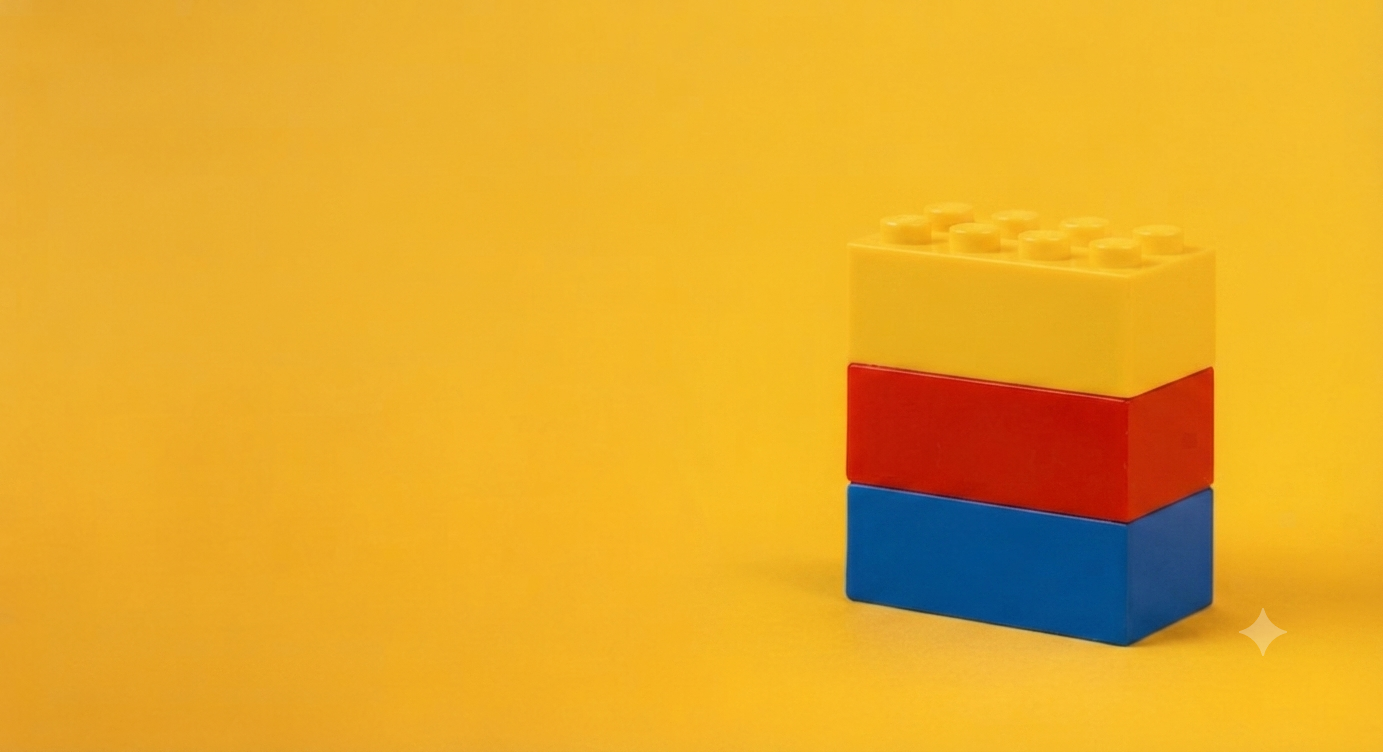
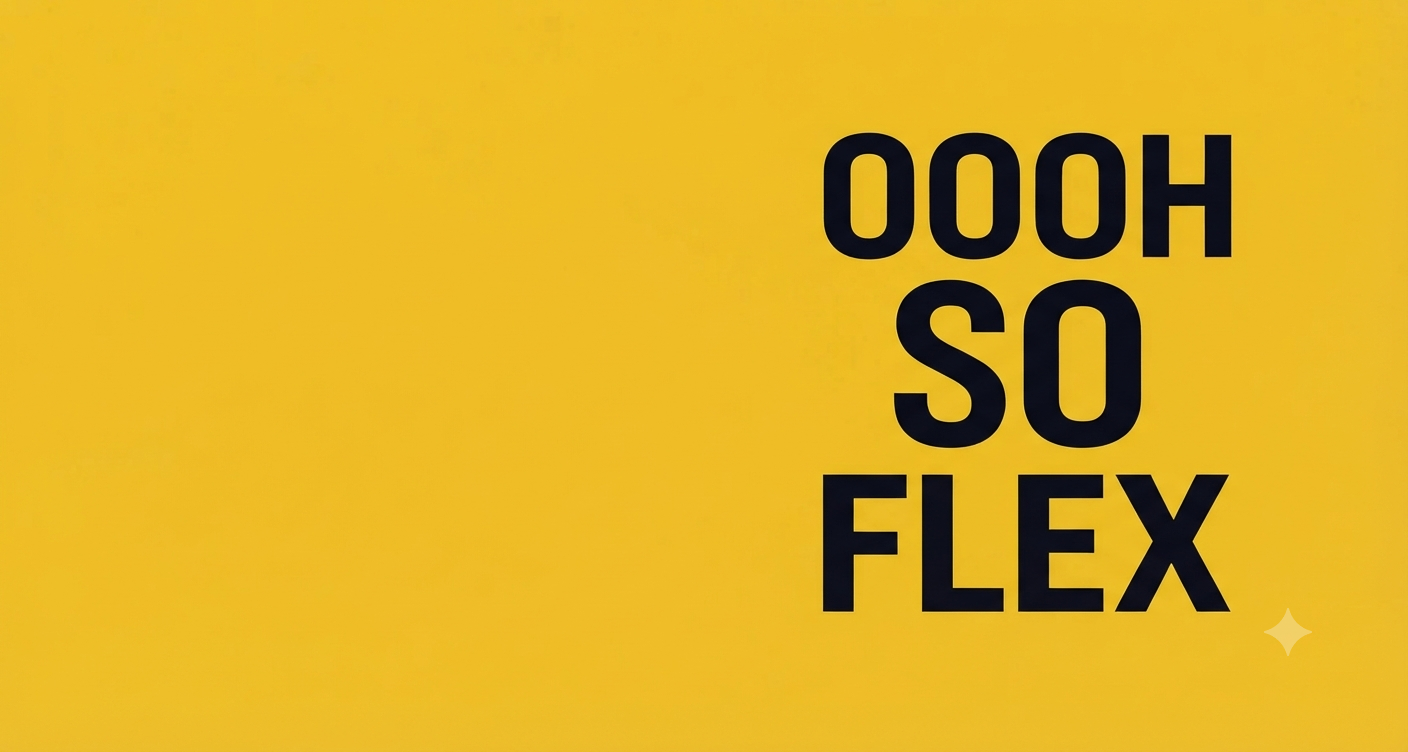
Update copy and flavor images

Changed region(s): [[0.5597, 0.1529, 1.0, 0.887], [0.0, 0.7035, 0.2798, 1.0], [0.0, 0.0, 0.1555, 0.0918]]

diff --git a/src/i18n/ui.ts b/src/i18n/ui.ts
@@ -39,25 +39,25 @@ export const ui = {
 
     'project1.title': 'Vision Design System',
     'project1.description': "End-to-end design system for Perceptyx's employee experience platform, from token architecture to component library.",
-    'project1.metric': 'Design System',
+    'project1.metric': '80%+ team adoption',
     'project1.summary': 'Perceptyx needed a single source of truth that could span multiple product surfaces without fracturing. Vision was the answer: a token-first, framework-agnostic system where every decision — color, spacing, motion — was named for its intent, not its value.',
     'project1.details': 'The core constraint was framework agnosticism: components had to work equally well in React, Vue, and plain HTML. Tokens lived at the semantic layer — shipped as CSS custom properties — so any consumer could adopt them regardless of stack. Storybook served as the shared contract between design and engineering, and versioned npm packages kept teams on a predictable upgrade path.',
 
     'project2.title': 'TurniSports — Online Schedule & Customer CMS',
     'project2.description': 'Booking and customer management platform built for individual sports coaches.',
-    'project2.metric': 'Open Source',
+    'project2.metric': 'Solo fullstack ship',
     'project2.summary': 'TurniSports started from a real pain point: individual coaches managing their schedules through WhatsApp groups and spreadsheets. The goal was a product that felt simple to the coach but handled the full complexity of recurring bookings, availability, and customer management.',
     'project2.details': 'Built as a full-stack application with a React frontend and a CMS that let coaches manage their availability, sessions, and client records without any technical knowledge. Real-time availability, booking confirmation flows, and a clean public-facing scheduling UI for their clients.',
 
     'project3.title': 'Kimberly-Clark — Enterprise Frontend (via Accenture)',
     'project3.description': "Frontend development for Kimberly-Clark's internal platforms as part of an Accenture engagement.",
-    'project3.metric': 'Enterprise',
+    'project3.metric': 'Accenture Award',
     'project3.summary': "Embedded within an Accenture team delivering frontend solutions for Kimberly-Clark's internal tools and consumer-facing platforms. The challenge was navigating enterprise constraints — legacy integrations, multi-team coordination, strict delivery timelines — while keeping the frontend quality high.",
     'project3.details': 'Led component standardization efforts across the engagement, established coding guidelines adopted by the broader team, and worked closely with UX and backend engineers to ship features that held up at scale. The experience sharpened my ability to operate in large, distributed delivery contexts.',
 
     'contact.heading': 'Contact',
-    'contact.intro': "If you're building something where frontend architecture matters, I'd like to hear about it.",
-    'contact.title': "Let's keep in touch.",
+    'contact.intro': "If frontend architecture is a real constraint in what you're building — not an afterthought — I want to talk.",
+    'contact.title': "Let's build something solid.",
     'contact.now': 'Contact Now',
 
     'nav.features': 'Features',
@@ -68,20 +68,20 @@ export const ui = {
     'nav.menu': 'Open menu',
     'nav.menu.close': 'Close menu',
 
-    'hero.title': 'Fullstack dev Frontend focus',
-    'hero.care': 'Caring for Performance & User Experiences',
-    'hero.thinker': 'Proactive thinker',
-    'hero.thinker.detail': 'Passionate for the craft, always thinking on the next step',
-    'hero.years.detail': 'Years of experience that makes a difference',
+    'hero.title': 'Frontend Engineer who ships full-stack',
+    'hero.care': 'Performance and access, built in — not bolted on',
+    'hero.thinker': 'Systems thinker',
+    'hero.thinker.detail': 'I think in systems, not screens. Architecture decisions today prevent fires next quarter.',
+    'hero.years.detail': '10+ years of shipping frontend that holds',
     'hero.learn-more': 'Learn More',
 
-    'work.flavors.heading': 'NOW with MORE flavors',
-    'work.flavors.frontend.kicker': 'Frontend experience',
-    'work.flavors.frontend.title': 'Design systems & frontend architecture',
-    'work.flavors.a11y.title': 'Accessibility & Performance',
-    'work.flavors.backend.kicker': 'Backend experience',
-    'work.flavors.backend.title': 'Node, SQL & API',
-    'work.my-work': 'My Work',
+    'work.flavors.heading': 'NOW in MORE flavors',
+    'work.flavors.frontend.kicker': 'Original flavor',
+    'work.flavors.frontend.title': 'Design systems &\nfrontend architecture',
+    'work.flavors.a11y.title': 'Built-in accessibility &\nperformance',
+    'work.flavors.backend.kicker': 'Extended flavor',
+    'work.flavors.backend.title': 'Node, SQL & APIs',
+    'work.my-work': 'See the work',
     'work.projects.pill': 'Projects',
 
     'project.view-more': 'View More',
@@ -173,25 +173,25 @@ export const ui = {
 
     'project1.title': 'Vision Design System',
     'project1.description': 'Sistema de diseño end-to-end para la plataforma de experiencia del empleado de Perceptyx, desde la arquitectura de tokens hasta la librería de componentes.',
-    'project1.metric': 'Design System',
+    'project1.metric': '80%+ adopción del equipo',
     'project1.summary': 'Perceptyx necesitaba una única fuente de verdad que pudiera abarcar múltiples superficies de producto sin fragmentarse. Vision fue la respuesta: un sistema token-first y agnóstico al framework donde cada decisión — color, espaciado, movimiento — fue nombrada por su intención, no por su valor.',
     'project1.details': 'La restricción principal era el agnosticismo de framework: los componentes tenían que funcionar igual de bien en React, Vue y HTML plano. Los tokens vivían en la capa semántica — distribuidos como CSS custom properties — para que cualquier consumidor pudiera adoptarlos sin importar su stack. Storybook fue el contrato compartido entre diseño e ingeniería, y los paquetes npm versionados mantuvieron a los equipos en una ruta de actualización predecible.',
 
     'project2.title': 'TurniSports — Agenda Online y CMS para Clientes',
     'project2.description': 'Plataforma de reservas y gestión de clientes construida para entrenadores deportivos independientes.',
-    'project2.metric': 'Open Source',
+    'project2.metric': 'Ship fullstack en solitario',
     'project2.summary': 'TurniSports nació de un problema real: entrenadores independientes gestionando sus agendas por grupos de WhatsApp y planillas. El objetivo era un producto que le resultara simple al entrenador pero que manejara toda la complejidad de reservas recurrentes, disponibilidad y gestión de clientes.',
     'project2.details': 'Construido como una aplicación full-stack con frontend en React y un CMS que permitía a los entrenadores gestionar su disponibilidad, sesiones y registros de clientes sin conocimientos técnicos. Disponibilidad en tiempo real, flujos de confirmación de reservas y una UI pública de turnos limpia para sus clientes.',
 
     'project3.title': 'Kimberly-Clark — Frontend Empresarial (vía Accenture)',
     'project3.description': 'Desarrollo frontend para las plataformas internas de Kimberly-Clark como parte de un proyecto de Accenture.',
-    'project3.metric': 'Enterprise',
+    'project3.metric': 'Premio Accenture',
     'project3.summary': 'Integrado en un equipo de Accenture entregando soluciones frontend para las herramientas internas y plataformas orientadas al consumidor de Kimberly-Clark. El desafío era navegar las restricciones empresariales — integraciones legacy, coordinación multi-equipo, plazos de entrega estrictos — manteniendo alta la calidad del frontend.',
     'project3.details': 'Lideré los esfuerzos de estandarización de componentes en el proyecto, establecí guías de código adoptadas por el equipo más amplio, y trabajé estrechamente con UX e ingenieros de backend para entregar funcionalidades que se mantuvieran a escala. La experiencia afiló mi capacidad de operar en contextos de entrega grandes y distribuidos.',
 
     'contact.heading': 'Contacto',
-    'contact.intro': 'Si estás construyendo algo donde la arquitectura frontend importa, me gustaría escucharlo.',
-    'contact.title': 'Sigamos en contacto.',
+    'contact.intro': 'Si la arquitectura frontend es una restricción real en lo que estás construyendo — no un afterthought — quiero hablar.',
+    'contact.title': 'Construyamos algo sólido.',
     'contact.now': 'Contactame',
 
     'nav.features': 'Secciones',
@@ -202,20 +202,20 @@ export const ui = {
     'nav.menu': 'Abrir menú',
     'nav.menu.close': 'Cerrar menú',
 
-    'hero.title': 'Dev Fullstack con foco en Frontend',
-    'hero.care': 'Cuido la performance y la experiencia de usuario',
-    'hero.thinker': 'Pensamiento proactivo',
-    'hero.thinker.detail': 'Apasionado por el oficio, siempre pensando en el próximo paso',
-    'hero.years.detail': 'Años de experiencia que hacen la diferencia',
+    'hero.title': 'Frontend Engineer que shipea full-stack',
+    'hero.care': 'Performance y acceso, integrados — no pegados con cinta',
+    'hero.thinker': 'Pensamiento sistémico',
+    'hero.thinker.detail': 'Pienso en sistemas, no en pantallas. Las decisiones de arquitectura de hoy evitan los incendios del próximo trimestre.',
+    'hero.years.detail': '10+ años shipiando frontend que aguanta',
     'hero.learn-more': 'Ver más',
 
     'work.flavors.heading': 'AHORA con MÁS sabores',
-    'work.flavors.frontend.kicker': 'Experiencia Frontend',
-    'work.flavors.frontend.title': 'Design systems y arquitectura frontend',
-    'work.flavors.a11y.title': 'Accesibilidad y Performance',
-    'work.flavors.backend.kicker': 'Experiencia Backend',
+    'work.flavors.frontend.kicker': 'Sabor original',
+    'work.flavors.frontend.title': 'Design systems y\narquitectura frontend',
+    'work.flavors.a11y.title': 'Accesibilidad y\nperformance integradas',
+    'work.flavors.backend.kicker': 'Sabor extendido',
     'work.flavors.backend.title': 'Node, SQL y APIs',
-    'work.my-work': 'Mi trabajo',
+    'work.my-work': 'Ver el trabajo',
     'work.projects.pill': 'Proyectos',
 
     'project.view-more': 'Ver más',